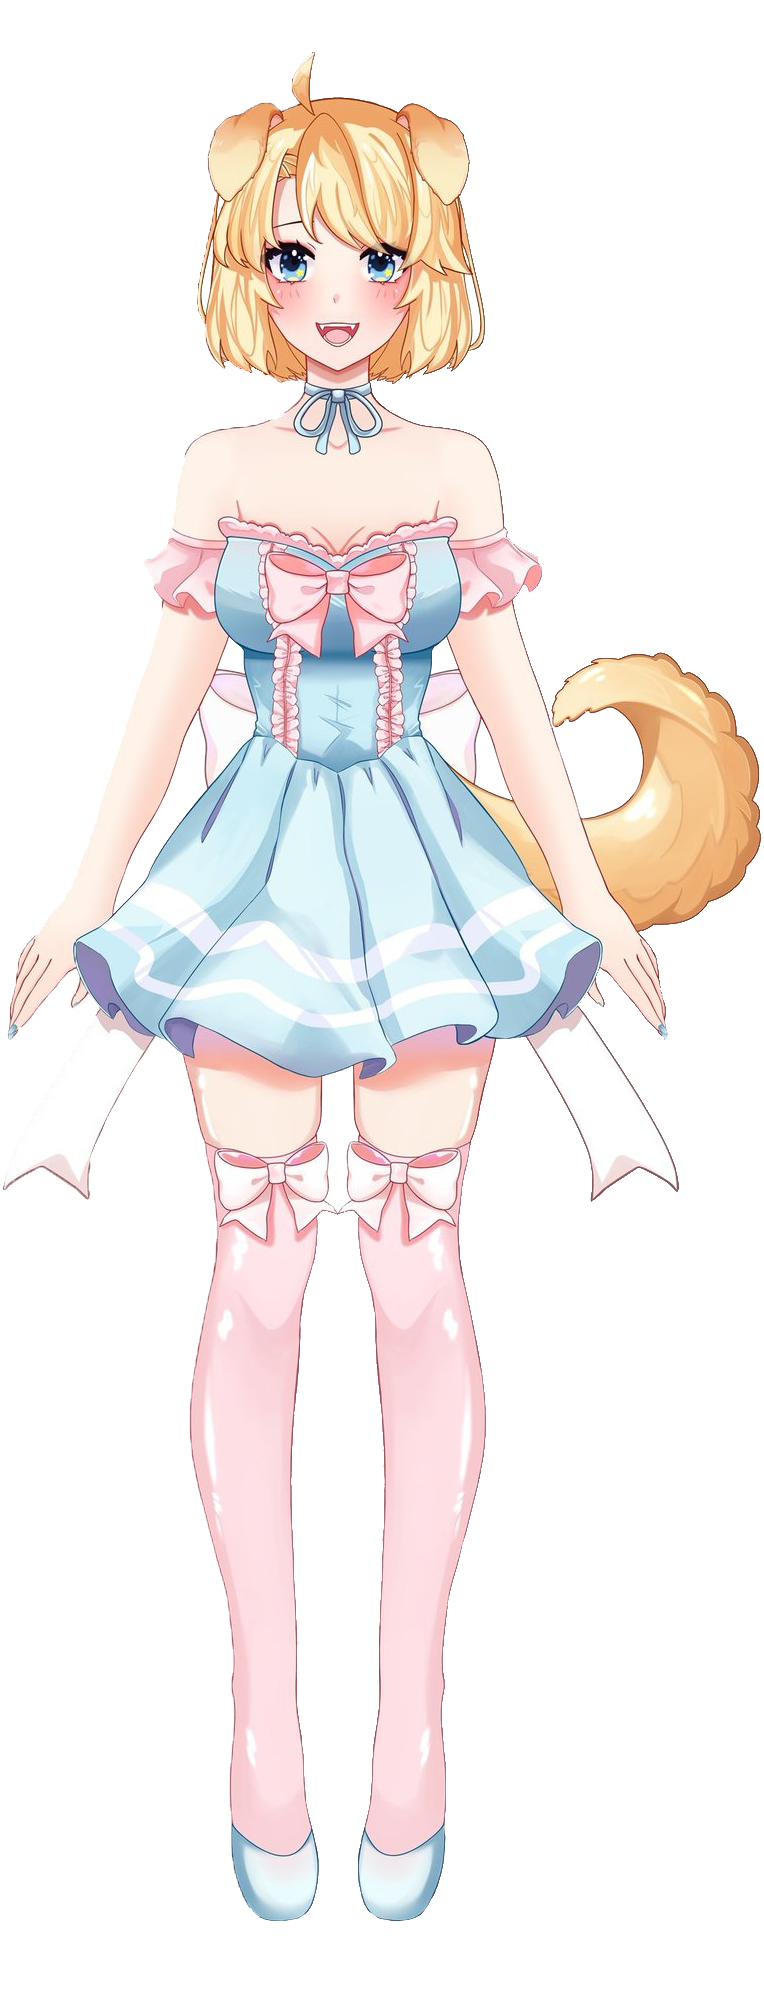
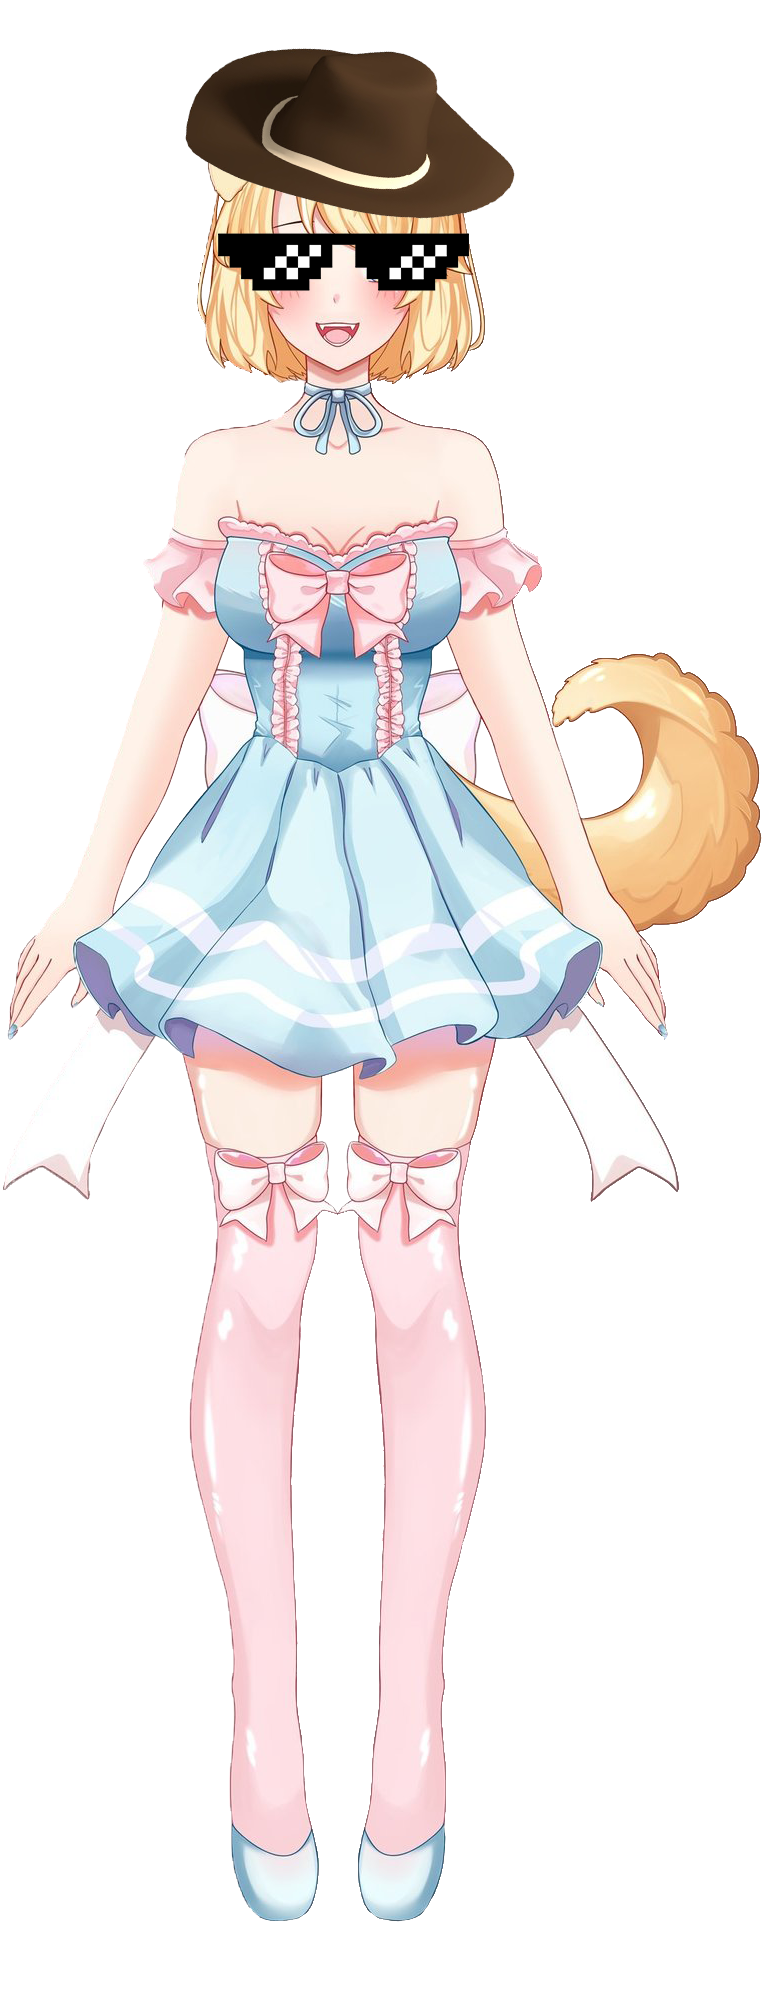
april fools day... hehe. AKARI THE CAT!

Changed region(s): [[0.2408, 0.0, 0.6924, 0.1557]]

diff --git a/index.html b/index.html
@@ -885,13 +885,13 @@
                             <hr class="hr-small"/>
                         </h2>
                         <div class="content">
-                            <h4 class="in-title about">ABOUT THE DOG</h4>
+                            <h4 class="in-title about">ABOUT THE CAT</h4>
                             <p><snap class="fw-bold">Birthday</snap>: 11th January</p>
                             <p><snap class="fw-bold">Height</snap>: 5'3" / 160 cm</p>
                             <p><snap class="fw-bold">Breed</snap>: <snap data-toggle="tooltip" title="<img width='175' src='./assets/img/breed/golden_retriever.webp'/>" data-placement="right"><a href="https://www.google.com/search?q=Golden+Retriever" target=”_blank”>Golden Retriever</a> <i class="fa-solid fa-images fa-xs"></i></snap></p>
                             <p><snap class="fw-bold">Languages</snap>: English, Tagalog</p>
                             <p class="special-text">Loves food, possibly more than you do.</p>
-                            <h4 class="in-title activity">DOG'S ACTIVITY</h4>
+                            <h4 class="in-title activity">CAT'S ACTIVITY</h4>
                             <p>Frequently gaming on <a href="https://www.youtube.com/channel/UCYed1gfgN5qCwJfk3j_yr2Q" target=”_blank”>Youtube</a></p>
                             <p>Mostly active on <a href="https://twitter.com/InunakaAkari" target=”_blank”>Twitter</a></p>
                             <p class="special-text">Playing lots of cool video games!</p>
@@ -921,7 +921,7 @@
                             </div>
                         </div>
                         <div class="contact">
-                            <h4 class="in-title about">CONTACT THE DOG</h4>
+                            <h4 class="in-title about">CONTACT THE CAT</h4>
                             <p style="white-space: nowrap;"><snap class="fw-bold">Mail</snap>: <a href="mailto:inunakaakari@gmail.com">inunakaakari@gmail.com</a> <i class="fa-solid fa-envelope fa-sm" aria-hidden="true"></i></p>
                         </div>
                         <button class="btn" onclick="transitionOff(`inunaka_akari`)">Go Back</button>
